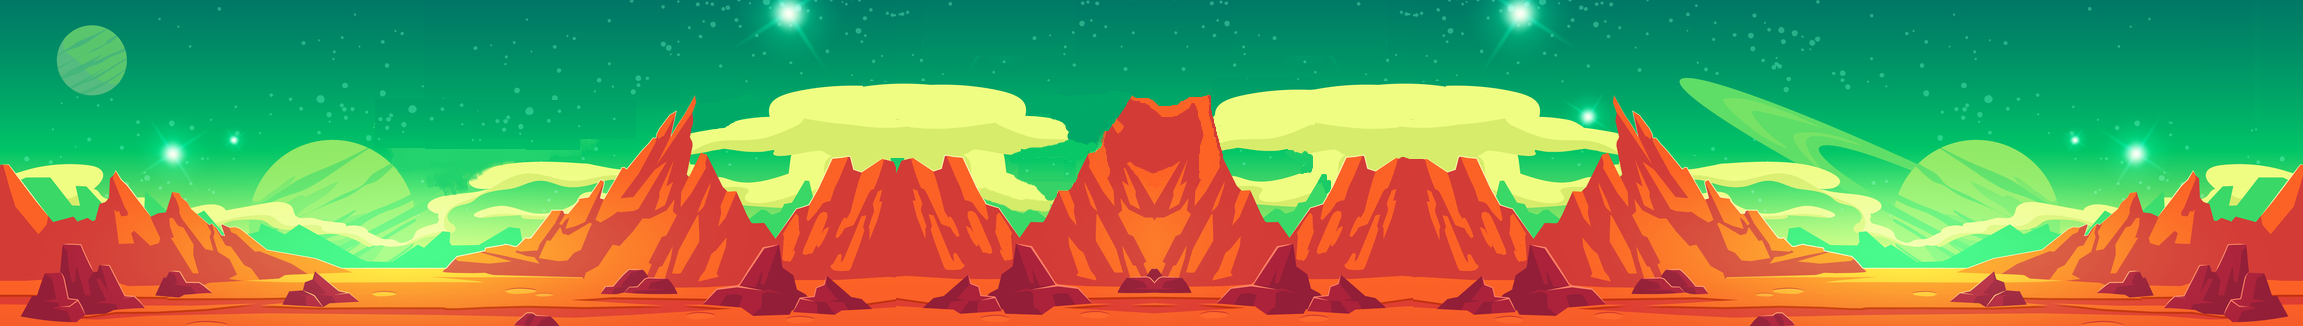
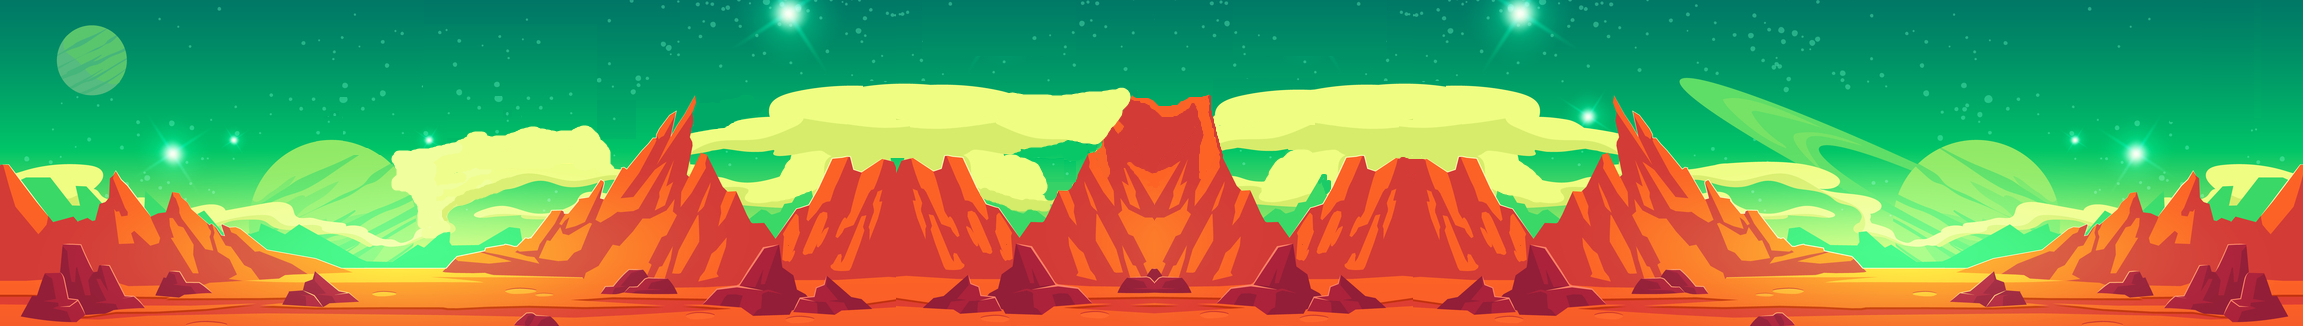
feat: Game2 - melhoria

diff --git a/Game2.py b/Game2.py
@@ -20,10 +20,11 @@ collision_sound = pygame.mixer.Sound('Assets/audio/squeaky-toy.mp3')
 collision_sound.set_volume(0.7)
 pop_sound = pygame.mixer.Sound('Assets/audio/pop.wav')
 
-# --- FUNÇÃO AUXILIAR PARA INTERPOLAR SUPERFÍCIES ---
+
+# --- FUNÇÃO AUXILIAR (mantida, embora não seja utilizada nesta versão) ---
 def blend_surfaces(surf1, surf2, blend):
-    """RETORNA UMA SUPERFÍCIE RESULTANTE DA INTERPOLAÇÃO ENTRE surf1 E surf2.
-    BLEND: 0.0 -> 100% surf1; 1.0 -> 100% surf2."""
+    """Retorna uma superfície resultante da interpolação entre surf1 e surf2.
+       blend: 0.0 -> 100% surf1; 1.0 -> 100% surf2."""
     temp1 = surf1.copy()
     temp2 = surf2.copy()
     temp1.set_alpha(int((1 - blend) * 255))
@@ -33,44 +34,48 @@ def blend_surfaces(surf1, surf2, blend):
     result.blit(temp2, (0, 0))
     return result
 
+
 # --- CLASSES ---
 
 class Jogador(pygame.sprite.Sprite):
     def __init__(self):
         super().__init__()
-        # CARREGA AS IMAGENS DA ANIMAÇÃO DE CAMINHADA
+        # Imagens de caminhada
         walk1 = pygame.image.load('Assets/graphics/player/player_walk_1.png').convert_alpha()
         walk2 = pygame.image.load('Assets/graphics/player/player_walk_2.png').convert_alpha()
         self.walk_frames = [walk1, walk2]
         self.walk_index = 0
-        # CARREGA AS IMAGENS DE PULO
+        # Imagens de pulo
         self.jump_img = pygame.image.load('Assets/graphics/player/jump.png').convert_alpha()
         self.jump2_img = pygame.image.load('Assets/graphics/player/jump2.png').convert_alpha()
         self.jump3_img = pygame.image.load('Assets/graphics/player/jump3.png').convert_alpha()
         self.image = self.walk_frames[self.walk_index]
         self.rect = self.image.get_rect(midbottom=(250, 300))
+
+        # Parâmetros de pulo
         self.gravidade = 0.0
         self.jump_sound = pygame.mixer.Sound('Assets/audio/jump.mp3')
         self.jump_sound.set_volume(0.5)
-        # VARIÁVEIS PARA DOUBLE JUMP
+        self.gravity_increment = 0.5
+
+        # Impulsos: pulo simples e double jump (1,5x pulo simples)
+        self.simple_jump_impulse = -12
+        self.double_jump_impulse = -18
+
+        # Controle de duplo pulo: só pode ser acionado com segundo toque de SPACE
         self.double_jump_available = True
         self.space_pressed_last = False
-        self.double_jump_timer = 0  # Controla exibição de jump3_img
-
-        # Impulsos (ajuste conforme necessário)
-        self.simple_jump_impulse = -12   # pulo simples
-        self.double_jump_impulse = -16   # double jump (1.33x simples, pode ser ajustado)
-        self.gravity_increment = 0.5       # aceleração suave
+        self.double_jump_timer = 0  # controla exibição do jump3_img
 
     def entrada(self):
         keys = pygame.key.get_pressed()
-        # Detecta transição: SPACE pressionado agora e não antes
+        # Detecta transição: SPACE pressionado agora e não no frame anterior
         if keys[pygame.K_SPACE] and not self.space_pressed_last:
             if self.rect.bottom >= 300:  # Se no chão: pulo simples
                 self.gravidade = self.simple_jump_impulse
                 self.jump_sound.play()
                 self.double_jump_available = True
-            elif self.double_jump_available:  # Se no ar e ainda pode double jump:
+            elif self.double_jump_available:  # Se no ar e double jump disponível: executa o double jump
                 self.gravidade = self.double_jump_impulse
                 self.double_jump_timer = 20  # Exibe jump3_img por ~0.33 s
                 self.double_jump_available = False
@@ -104,12 +109,13 @@ class Jogador(pygame.sprite.Sprite):
         else:
             self.animacao()
 
+
 class Obstaculo(pygame.sprite.Sprite):
     def __init__(self, tipo):
         super().__init__()
         self.tipo = tipo
         if tipo == 'flying_alien':
-            # Reduz a altura dos fly para que passem logo acima do player
+            # Ajusta a altura dos fly para que fiquem logo acima do player
             fly1 = pygame.image.load('Assets/graphics/flying_alien/flying_alien1.png').convert_alpha()
             fly2 = pygame.image.load('Assets/graphics/flying_alien/flying_alien2.png').convert_alpha()
             self.frames = [fly1, fly2]
@@ -126,7 +132,7 @@ class Obstaculo(pygame.sprite.Sprite):
             y_pos = 300
         self.anim_index = 0
         self.image = self.frames[self.anim_index]
-        # Posicionamento horizontal aleatório
+        # Posicionamento horizontal aleatório entre 900 e 1300
         self.rect = self.image.get_rect(midbottom=(randint(900, 1300), y_pos))
         self.pontuado = False
 
@@ -149,14 +155,12 @@ class Obstaculo(pygame.sprite.Sprite):
         if self.rect.x <= -100:
             self.kill()
 
+
 def colisao():
     collisions = pygame.sprite.spritecollide(jogador.sprite, obstaculos, False)
     for obs in collisions:
         # Define threshold: 20 px para ground_alien e man_eater_flower; 10 para flying_alien
-        if obs.tipo in ['ground_alien','man_eater_flower']:
-            threshold = 20
-        else:
-            threshold = 10
+        threshold = 20 if obs.tipo in ['ground_alien', 'man_eater_flower'] else 10
         if jogador.sprite.gravidade >= 0 and jogador.sprite.rect.bottom <= obs.rect.top + threshold:
             obs.kill()
             jogador.sprite.image = jogador.sprite.jump2_img
@@ -167,56 +171,61 @@ def colisao():
                 pontuacao += 1
                 obs.pontuado = True
         else:
-            return False
+            return False  # Colisão frontal = game over
     return True
 
+
 def mostrar_pontuacao():
-    txt = fonte.render(f'Pontos: {pontuacao}', False, (64,64,64))
-    rct = txt.get_rect(center=(400,50))
+    txt = fonte.render(f'Pontos: {pontuacao}', False, (64, 64, 64))
+    rct = txt.get_rect(center=(400, 50))
     screen.blit(txt, rct)
 
+
 def mostrar_nivel2():
-    lvl2_txt = fonte_grande.render("NÍVEL 2", True, (255,255,255))
-    lvl2_rect = lvl2_txt.get_rect(center=(400,50))
+    # Exibe "NÍVEL 2" no topo da tela (y = 50)
+    lvl2_txt = fonte_grande.render("NÍVEL 2", True, (255, 255, 255))
+    lvl2_rect = lvl2_txt.get_rect(center=(400, 50))
     screen.blit(lvl2_txt, lvl2_rect)
+
 
 def efeito_colisao():
     global bg_x_pos, ground_x_pos
     collision_sound.play()
-    blink_dur = 1000  # MS
-    blink_int = 100  # MS
+    blink_dur = 1000  # ms
+    blink_int = 100  # ms
     start_time = pygame.time.get_ticks()
     while pygame.time.get_ticks() - start_time < blink_dur:
-        for event in pygame.event.get():
-            if event.type == pygame.QUIT:
+        for e in pygame.event.get():
+            if e.type == pygame.QUIT:
                 pygame.quit()
                 exit()
-        if ((pygame.time.get_ticks() - start_time)//blink_int) % 2 == 0:
+        if ((pygame.time.get_ticks() - start_time) // blink_int) % 2 == 0:
             jogador.sprite.image.set_alpha(0)
         else:
             jogador.sprite.image.set_alpha(255)
         screen.blit(current_sky, (bg_x_pos, 0))
-        screen.blit(current_sky, (bg_x_pos+current_sky.get_width(), 0))
-        screen.blit(ground_surface, (ground_x_pos,300))
+        screen.blit(current_sky, (bg_x_pos + current_sky.get_width(), 0))
+        screen.blit(ground_surface, (ground_x_pos, 300))
         screen.blit(jogador.sprite.image, jogador.sprite.rect)
         pygame.display.update()
         pygame.time.delay(30)
     jogador.sprite.image.set_alpha(255)
-    fade_surf = pygame.Surface((800,400))
-    fade_surf.fill((0,0,0))
-    for alpha in range(0,255,5):
+    fade_surf = pygame.Surface((800, 400))
+    fade_surf.fill((0, 0, 0))
+    for alpha in range(0, 255, 5):
         fade_surf.set_alpha(alpha)
-        screen.blit(current_sky, (bg_x_pos,0))
-        screen.blit(current_sky, (bg_x_pos+current_sky.get_width(),0))
-        screen.blit(ground_surface, (ground_x_pos,300))
+        screen.blit(current_sky, (bg_x_pos, 0))
+        screen.blit(current_sky, (bg_x_pos + current_sky.get_width(), 0))
+        screen.blit(ground_surface, (ground_x_pos, 300))
         screen.blit(jogador.sprite.image, jogador.sprite.rect)
-        screen.blit(fade_surf, (0,0))
+        screen.blit(fade_surf, (0, 0))
         pygame.display.update()
         pygame.time.delay(30)
 
+
 clock = pygame.time.Clock()
-fonte = pygame.font.Font('Assets/font/Minecraft.ttf',20)
-fonte_grande = pygame.font.Font('Assets/font/Minecraft.ttf',50)
+fonte = pygame.font.Font('Assets/font/Minecraft.ttf', 20)
+fonte_grande = pygame.font.Font('Assets/font/Minecraft.ttf', 50)
 
 game_active = False
 game_started = False
@@ -226,38 +235,37 @@ jogador = pygame.sprite.GroupSingle()
 jogador.add(Jogador())
 obstaculos = pygame.sprite.Group()
 
-# LOAD BACKGROUNDS
-sky_initial = pygame.image.load('Assets/graphics/sky.png').convert()
-sky1_0 = pygame.image.load('Assets/graphics/sky1.0.png').convert()
-sky1_1 = pygame.image.load('Assets/graphics/sky1.1.png').convert()
-current_sky = sky_initial.copy()
+# Usamos apenas dois fundos: sky e sky2
+sky = pygame.image.load('Assets/graphics/sky.png').convert()
+sky2 = pygame.image.load('Assets/graphics/sky2.png').convert()
+current_sky = sky.copy()
 ground_surface = pygame.image.load('Assets/graphics/ground.png').convert()
 
 player_stand = pygame.image.load('Assets/graphics/player/player_stand.png').convert_alpha()
-player_stand = pygame.transform.rotozoom(player_stand,0,2)
-player_stand_rect = player_stand.get_rect(center=(400,200))
+player_stand = pygame.transform.rotozoom(player_stand, 0, 2)
+player_stand_rect = player_stand.get_rect(center=(400, 200))
 
-game_title = fonte.render('ALIEN VOID', False, (111,196,169))
-game_title_rect = game_title.get_rect(center=(400,60))
-game_info = fonte.render('RU: 3993463 - FRANCISCO SADI SANTOS PONTES', False, (111,196,169))
-game_info_rect = game_info.get_rect(center=(400,110))
-start_message = fonte.render('Pressione espaco para jogar', False, (111,196,169))
-start_message_rect = start_message.get_rect(center=(400,330))
+game_title = fonte.render('ALIEN VOID', False, (111, 196, 169))
+game_title_rect = game_title.get_rect(center=(400, 60))
+game_info = fonte.render('RU: 3993463 - FRANCISCO SADI SANTOS PONTES', False, (111, 196, 169))
+game_info_rect = game_info.get_rect(center=(400, 110))
+start_message = fonte.render('Pressione espaco para jogar', False, (111, 196, 169))
+start_message_rect = start_message.get_rect(center=(400, 330))
 
-obstacle_timer = pygame.USEREVENT+1
-pygame.time.set_timer(obstacle_timer,2000)
+obstacle_timer = pygame.USEREVENT + 1
+pygame.time.set_timer(obstacle_timer, 2000)
 
 bg_x_pos = 0
 ground_x_pos = 0
 scroll_speed = 1
 
-SECOND_PHASE_THRESHOLD = 2
-THIRD_PHASE_THRESHOLD = 3
-FINAL_PHASE_THRESHOLD = 5
+# Definindo LEVEL_THRESHOLD para mudança de fundo
+LEVEL_THRESHOLD = 15
 
 level2_pause = False
 level2_start_time = 0
 level2_triggered = False
+
 
 def main():
     global game_active, game_started, pontuacao, bg_x_pos, ground_x_pos, current_sky, level2_pause, level2_start_time, level2_triggered
@@ -269,7 +277,7 @@ def main():
                 exit()
             if game_active:
                 if event.type == obstacle_timer and not level2_pause:
-                    if pontuacao < 5:
+                    if pontuacao < LEVEL_THRESHOLD:
                         kind = choice(['flying_alien', 'ground_alien'])
                     else:
                         kind = choice(['flying_alien', 'ground_alien', 'man_eater_flower'])
@@ -279,22 +287,22 @@ def main():
                     game_active = True
                     pontuacao = 0
                     obstaculos.empty()
-                    jogador.sprite.rect.midbottom = (250,300)
+                    jogador.sprite.rect.midbottom = (250, 300)
                     jogador.sprite.gravidade = 0
                     game_started = True
                     level2_pause = False
                     level2_triggered = False
-                    current_sky = sky_initial.copy()
+                    current_sky = sky.copy()
                     bg_x_pos = 0
                     ground_x_pos = 0
 
         if game_active:
-            if pontuacao >= 15 and not level2_triggered:
+            if pontuacao >= LEVEL_THRESHOLD and not level2_triggered:
                 level2_pause = True
                 level2_start_time = pygame.time.get_ticks()
                 level2_triggered = True
                 obstaculos.empty()
-                current_sky = sky1_1.copy()
+                current_sky = sky2.copy()
             if level2_pause:
                 mostrar_nivel2()
                 if pygame.time.get_ticks() - level2_start_time >= 5000:
@@ -307,10 +315,10 @@ def main():
             if ground_x_pos <= -ground_surface.get_width():
                 ground_x_pos = 0
 
-            screen.blit(current_sky, (bg_x_pos,0))
-            screen.blit(current_sky, (bg_x_pos+current_sky.get_width(),0))
-            screen.blit(ground_surface, (ground_x_pos,300))
-            screen.blit(ground_surface, (ground_x_pos+ground_surface.get_width(),300))
+            screen.blit(current_sky, (bg_x_pos, 0))
+            screen.blit(current_sky, (bg_x_pos + current_sky.get_width(), 0))
+            screen.blit(ground_surface, (ground_x_pos, 300))
+            screen.blit(ground_surface, (ground_x_pos + ground_surface.get_width(), 300))
 
             mostrar_pontuacao()
             jogador.draw(screen)
@@ -323,26 +331,27 @@ def main():
                 game_active = False
         else:
             if not game_started:
-                screen.fill((0,60,80))
+                screen.fill((0, 60, 80))
                 screen.blit(game_title, game_title_rect)
                 screen.blit(game_info, game_info_rect)
                 screen.blit(start_message, start_message_rect)
-                alpha_val = 128+127*math.sin(pygame.time.get_ticks()/500)
+                alpha_val = 128 + 127 * math.sin(pygame.time.get_ticks() / 500)
                 player_stand.set_alpha(alpha_val)
                 screen.blit(player_stand, player_stand_rect)
             else:
-                screen.fill((0,0,0))
-                go_txt = fonte_grande.render("FIM DE JOGO", True, (255,255,255))
-                go_rect = go_txt.get_rect(center=(400,150))
-                screen.blit(go_txt,go_rect)
-                score_msg = fonte.render(f'Sua pontuacão total foi: {pontuacao}', True, (255,255,255))
-                score_rect = score_msg.get_rect(center=(400,250))
-                screen.blit(score_msg,score_rect)
-                re_msg = fonte.render("Pressione espaco para reiniciar", True, (255,255,255))
-                re_rect = re_msg.get_rect(center=(400,350))
+                screen.fill((0, 0, 0))
+                go_txt = fonte_grande.render("FIM DE JOGO", True, (255, 255, 255))
+                go_rect = go_txt.get_rect(center=(400, 150))
+                screen.blit(go_txt, go_rect)
+                score_msg = fonte.render(f'Sua pontuacão total foi: {pontuacao}', True, (255, 255, 255))
+                score_rect = score_msg.get_rect(center=(400, 250))
+                screen.blit(score_msg, score_rect)
+                re_msg = fonte.render("Pressione espaco para reiniciar", True, (255, 255, 255))
+                re_rect = re_msg.get_rect(center=(400, 350))
                 screen.blit(re_msg, re_rect)
         pygame.display.update()
         clock.tick(60)
+
 
 if __name__ == '__main__':
     main()
